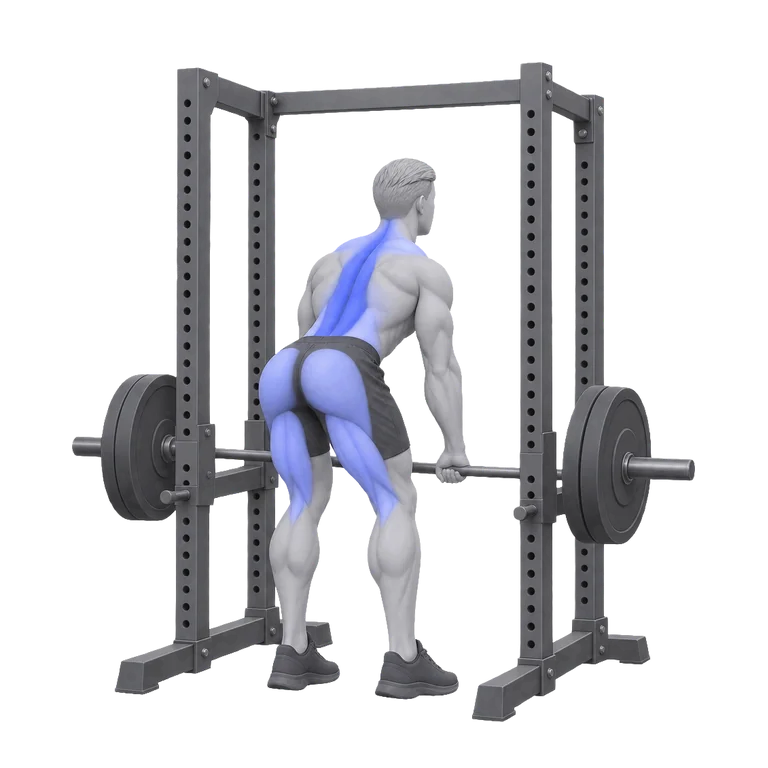
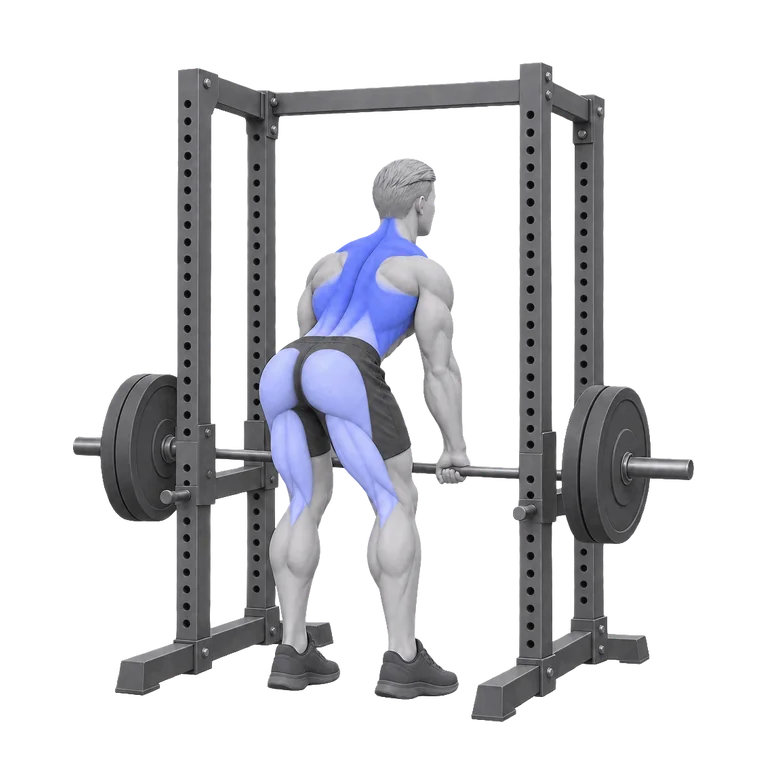
Fix ab-wheel frame jump and deadlift-variant primary muscle
- ab-wheel-rollout: re-finalized both frames from the raw renders with one
  shared transform (frame 1 registered to frame 0 by the shoes), so the
  athlete no longer shrinks between the two images.
- rack-pulls, deficit-deadlift: primary muscle back (lats/traps), with lower
  back as secondary, matching deadlift-conventional. Lower back is a
  low-priority muscle in volume targets, so these sets barely counted before.
  Illustrations recolored to match (same renders, highlight only).

diff --git a/src/data/exercises.ts b/src/data/exercises.ts
@@ -2075,8 +2075,8 @@ const ADDITIONAL_EXERCISES: Exercise[] = [
     id: 'rack-pulls',
     nameHe: 'רק פולס (דדליפט מגובה)',
     nameEn: 'Rack Pulls',
-    muscle: 'lower_back',
-    secondaryMuscles: ['glutes', 'hamstrings', 'traps'],
+    muscle: 'back',
+    secondaryMuscles: ['glutes', 'hamstrings', 'lower_back', 'traps'],
     equipment: 'barbell',
     alternatives: ['deadlift-conventional', 'deficit-deadlift', 'romanian-deadlift-barbell'],
     defaultSets: 3,
@@ -2101,8 +2101,8 @@ const ADDITIONAL_EXERCISES: Exercise[] = [
     id: 'deficit-deadlift',
     nameHe: 'דדליפט מבמה מוגבהת (דפיסיט)',
     nameEn: 'Deficit Deadlift',
-    muscle: 'lower_back',
-    secondaryMuscles: ['glutes', 'hamstrings', 'back', 'quads', 'traps'],
+    muscle: 'back',
+    secondaryMuscles: ['glutes', 'hamstrings', 'quads', 'lower_back', 'traps'],
     equipment: 'barbell',
     alternatives: ['deadlift-conventional', 'rack-pulls', 'sumo-deadlift'],
     defaultSets: 3,
